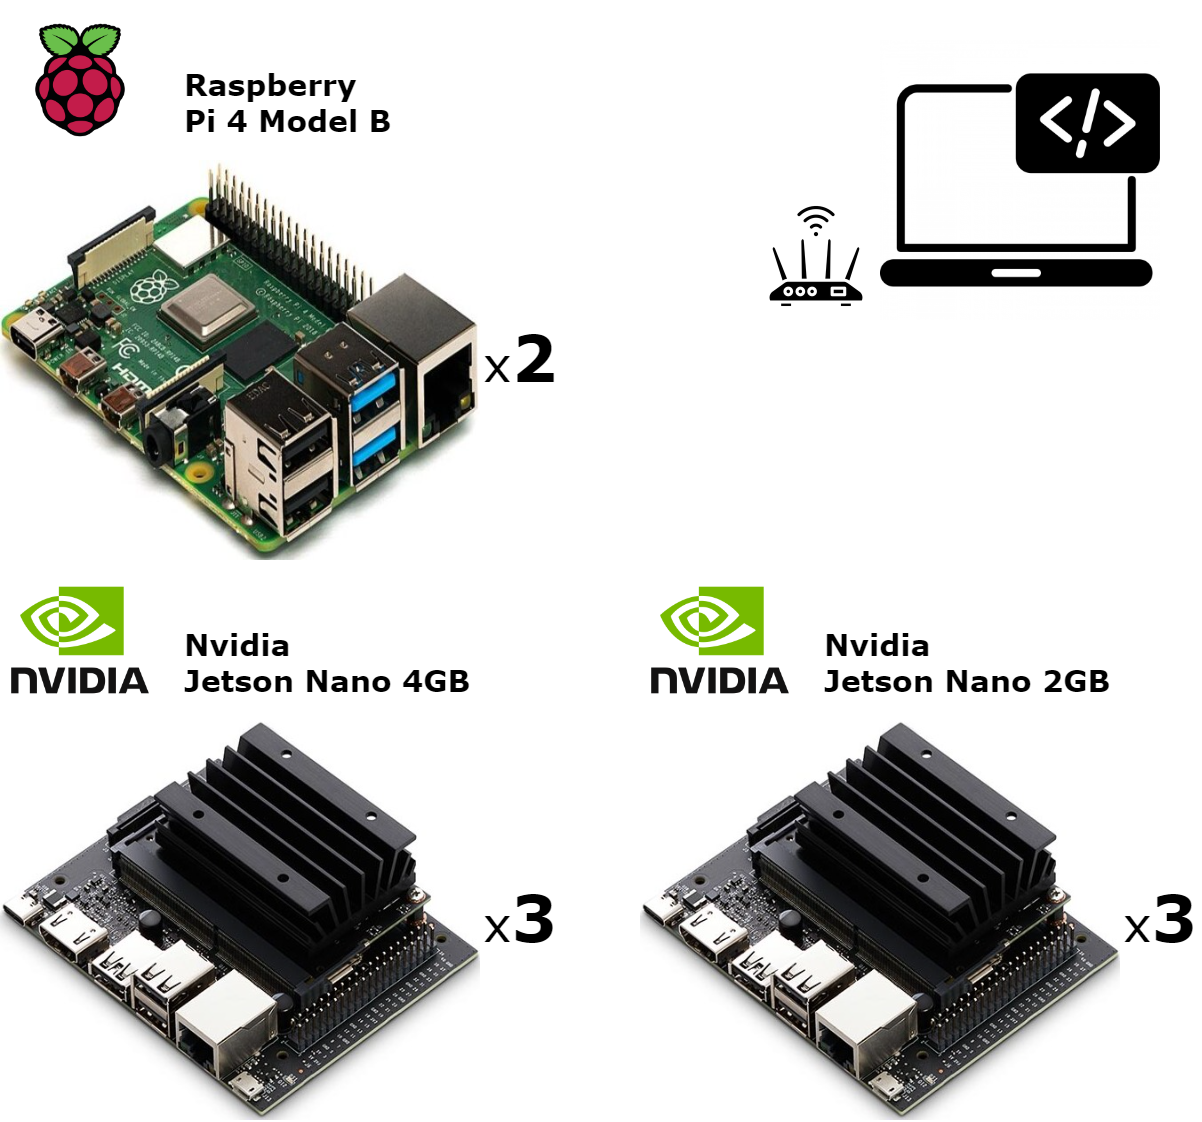
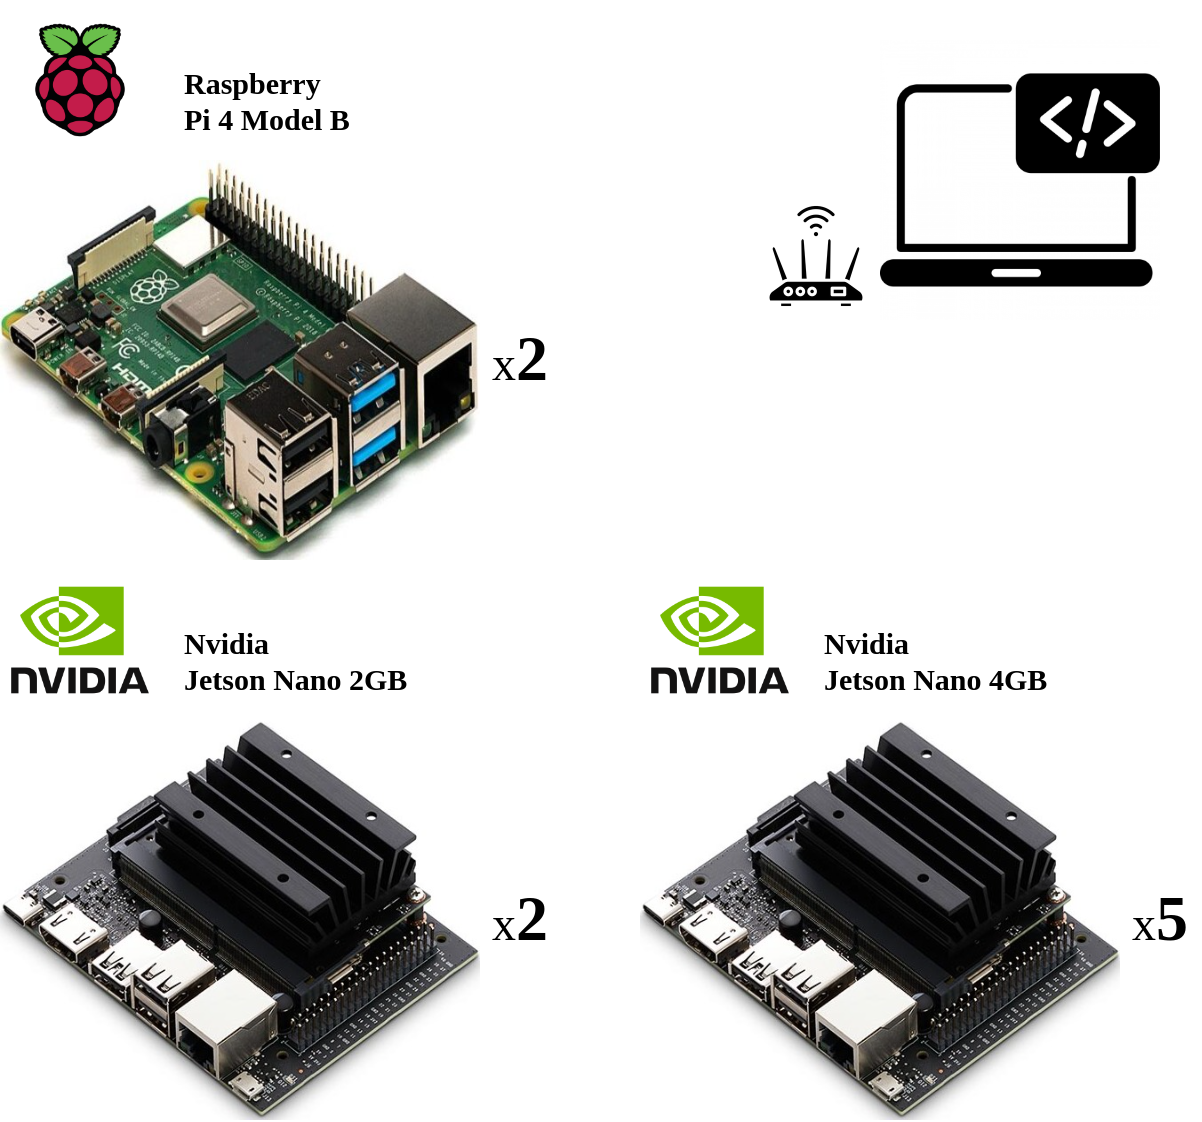
gather

diff --git a/_posts/2022-10-12-federated-learning-iot-part-1.md b/_posts/2022-10-12-federated-learning-iot-part-1.md
@@ -49,7 +49,7 @@ Here $M$ is the total number of devices, $L_m$ is the local objective function f
 ## 2. A Network of IoT Devices
 
 ### Network Ingredients
-Most of the existing research on FL uses an FL setting simulation on a single machine. This does not make sense much because it does not introduce major issues of real FL like communication and system heterogeneity. In this tutorial, to introduce and handle these issues, I create and use a local network that consists of various types of edge devices. Specifically, I use 2 Raspberry Pi 4 Model B, 3 NVIDIA Jetson Nano 4GB, and 3 NVIDIA Jetson Nano 2GB. Figure 2 shows the ingredients of the network where my laptop is used as a remote server and connects to all devices via local Wifi. 
+Most of the existing research on FL uses an FL setting simulation on a single machine. This does not make sense much because it does not introduce major issues of real FL like communication and system heterogeneity. In this tutorial, to introduce and handle these issues, I create and use a local network that consists of various types of edge devices. Specifically, I use 2 Raspberry Pi 4 Model B, 2 NVIDIA Jetson Nano 2GB, and 5 NVIDIA Jetson Nano 4GB. Figure 2 shows the ingredients of the network where my laptop is used as a remote server and connects to all devices via local Wifi. 
 {: style="text-align: justify;"}
 
 <figure class="align-center">
